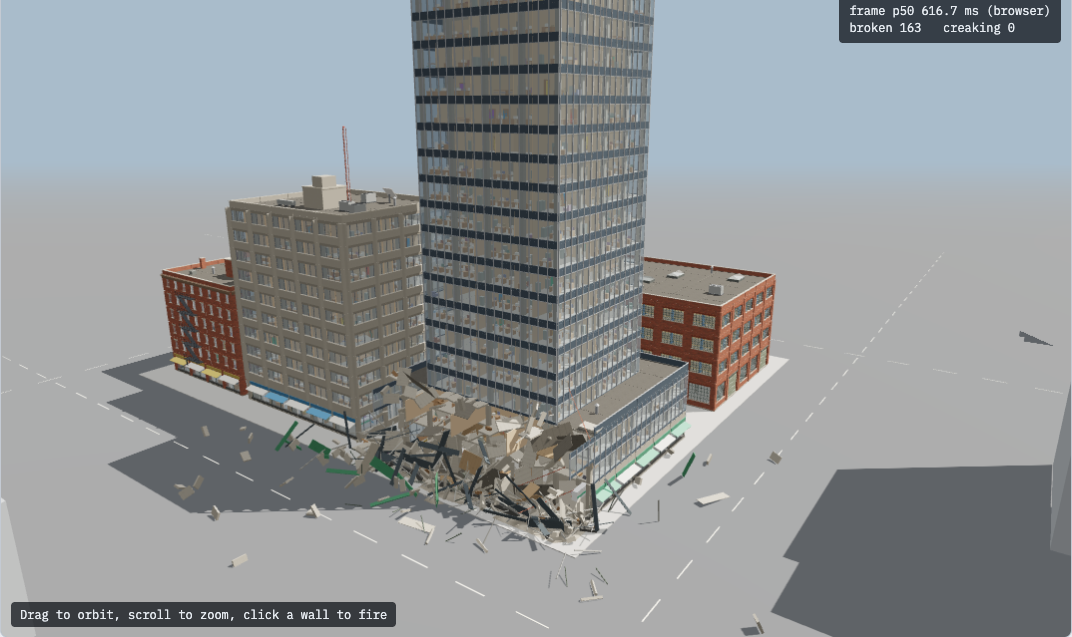
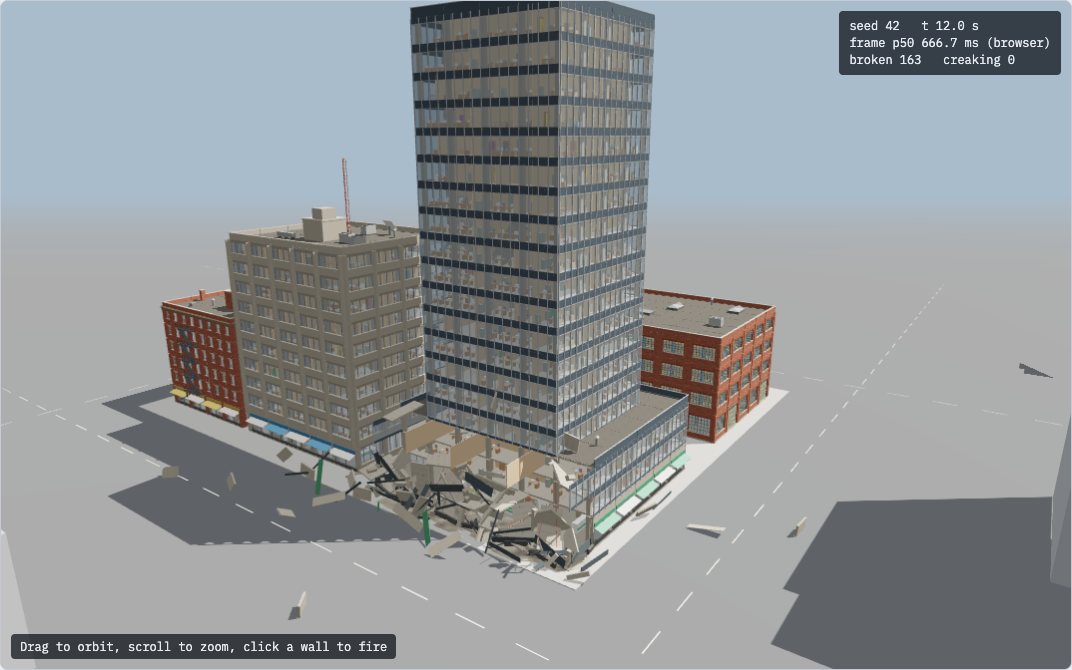
Measure the structure on the CPU; a lighter Game debris tier
A Rust port of the mockup's solve and debris step (a measurement instrument, not game code):
0.06 ms for a 19-storey tower, 0.18 ms for 60 storeys, 0.35 ms for 9 000 moving pieces, on one
M4 Max core, indicative only. The pieces are the cost, so the mockup gains a Game debris tier
(biggest boxes only, 2 parts at most, glass, partitions and furniture to dust and heap, a 2 500
pool, no perching on column tops): the warehouse collapse drops from 7 556 pieces to 1 387.

diff --git a/docs/mockups/buildings.html b/docs/mockups/buildings.html
@@ -96,6 +96,10 @@ dt { color: var(--muted); } dd { margin: 0; text-align: right; }
         <button data-demo="warehouse">Drop the warehouse</button>
         <button data-demo="walkup">Missile volley</button>
       </div>
+      <div class="row"><label>Debris</label>
+        <button id="tierGame" class="on">Game</button>
+        <button id="tierFull">Full</button>
+      </div>
       <div class="row">
         <label>Seed <input type="number" id="seed" value="42" style="width:90px"></label>
         <button id="regen">Generate</button>
@@ -187,7 +191,12 @@ const T = {
   slab_support_factor: { four: 1.0, three: 0.85, diagonal: 0.7, one_edge: 0.45, one: 0.25, hung: 0.4 },
   hp_mj: { column: 2.5, slab: 3.0, wall: 0.7, glass: 0.02, partition: 0.15, core: 1.2, furniture: 0.05, prop: 0.35, parapet: 0.5, escape: 0.25 },
   blast_m_per_cbrt_mj: 2.2,
-  debris_pool: 9000, rubble_fines: 0.5, repose_slope: 0.75, heap_cell_m: 1.0,
+  debris_pool: 9000, rubble_fines: 0.5,
+  // Debris detail. Game: only the biggest boxes of a member become pieces (a column 1, a wall 2, a
+  // tank 6), at most 2 parts each, glass, partitions and furniture go straight to dust and heap, and
+  // pieces never perch on column or wall tops. Full: every box, up to 6 parts each (the first mockup).
+  debris_keep: { column: 1, slab: 1, wall: 2, parapet: 1, core: 3, escape: 2, prop: 6, glass: 0, partition: 0, furniture: 0 },
+  debris_pool_game: 2500, repose_slope: 0.75, heap_cell_m: 1.0,
 };
 const WEAPONS = [['35 mm', 0.25], ['120 mm', 4], ['Missile', 12], ['Demolition', 50]];
 const blastRadius = e => T.blast_m_per_cbrt_mj * Math.cbrt(e);   // the crater rule from terrain-deformation
@@ -1103,14 +1112,28 @@ function blast(p, energy) {
   puff(p, R * 1.4, 0x8a8278, 3.5, 0.9);
   puff(p, R * 0.9, 0xffa040, 0.35, 1.0);
 }
+let DEBRIS_TIER = 'game';
+// The boxes of an element that become pieces, and the volume that goes straight to the heap.
+function pieceBoxes(e) {
+  if (DEBRIS_TIER === 'full') return { boxes: e.boxes, fines: 0 };
+  const keep = T.debris_keep[e.kind] ?? 1;
+  const sorted = e.boxes.slice().sort((a, c) => c.s[0] * c.s[1] * c.s[2] - a.s[0] * a.s[1] * a.s[2]);
+  const boxes = sorted.slice(0, keep);
+  const fines = sorted.slice(keep).reduce((v, bx) => v + bx.s[0] * bx.s[1] * bx.s[2], 0);
+  return { boxes, fines };
+}
+const poolSize = () => DEBRIS_TIER === 'full' ? T.debris_pool : T.debris_pool_game;
 function destroy(id, cause) {
   const e = E[id]; if (!e.alive) return;
   e.alive = false; sim.broken++;
   const b = B[e.b]; b.dirty = true; b.maskDirty = true;
   const r = sim.rng;
   // The pieces: each box breaks into a few (in the game, the module's pre-fractured cells).
-  for (const bx of e.boxes) {
-    const n = bx.mat === 'glass' ? 4 : Math.max(1, Math.min(6, Math.round(bx.s[0] * bx.s[1] * bx.s[2] / 0.5)));
+  const { boxes, fines } = pieceBoxes(e);
+  if (fines > 0) heapDeposit((e.aabb[0] + e.aabb[3]) / 2, (e.aabb[2] + e.aabb[5]) / 2, fines * T.rubble_fines, 1.5);
+  for (const bx of boxes) {
+    const most = DEBRIS_TIER === 'full' ? 6 : 2;
+    const n = bx.mat === 'glass' ? 4 : Math.max(1, Math.min(most, Math.round(bx.s[0] * bx.s[1] * bx.s[2] / 0.5)));
     for (const part of fracture(bx, n, r)) {
       let v;
       if (cause) {
@@ -1144,7 +1167,7 @@ const MAT_TINT = { brick: 0x9a4a36, roof: 0x55524d };
 function spawnPiece(part, v, w, cluster = null) {
   let slot = sim.free.pop();
   if (slot === undefined) {
-    if (sim.pieces.length < T.debris_pool) slot = sim.pieces.length;
+    if (sim.pieces.length < poolSize()) slot = sim.pieces.length;
     else {    // the pool is full: the oldest resting piece becomes heap
       while (sim.settledQ.length && !(sim.pieces[sim.settledQ[0]]?.settled)) sim.settledQ.shift();
       slot = sim.settledQ.shift();
@@ -1186,11 +1209,12 @@ function dropIslands(b, loose) {
     cl.c.multiplyScalar(1 / m); cl.mass = m;
     // It tips away from whatever it last stood on.
     if (ns) { sup.multiplyScalar(1 / ns); const away = new THREE.Vector3(cl.c.x - sup.x, 0, cl.c.z - sup.z); if (away.lengthSq() > 0.01) { away.normalize(); cl.w.set(away.z, 0, -away.x).multiplyScalar(-0.35); } }
-    for (const id of ids) for (const bx of E[id].boxes) {
+    cl.fines = 0;
+    for (const id of ids) { const pb = pieceBoxes(E[id]); cl.fines += pb.fines; for (const bx of pb.boxes) {
       const p = spawnPiece({ c: bx.c, s: bx.s, q: bx.q, color: bx.color, mat: bx.mat }, new THREE.Vector3(), new THREE.Vector3(), cl);
       if (!p) continue;
       p.local = bx.c.clone().sub(cl.c); p.lq = bx.q.clone(); cl.pieces.push(p);
-    }
+    } }
     sim.clusters.push(cl);
   }
   b.maskDirty = true;
@@ -1239,7 +1263,7 @@ function pushOut(p, hh) {
       const ox = Math.min(p.c.x + ex - a[0], a[3] - (p.c.x - ex)), oz = Math.min(p.c.z + ez - a[2], a[5] - (p.c.z - ez));
       const oy = Math.min(p.c.y + hh - a[1], a[4] - (p.c.y - hh));
       if (ox <= 0 || oy <= 0 || oz <= 0) continue;
-      if (oy < Math.min(ox, oz) && p.c.y > (a[1] + a[4]) / 2) { p.c.y += oy + 0.004; onTop = true; }
+      if (DEBRIS_TIER === 'full' && oy < Math.min(ox, oz) && p.c.y > (a[1] + a[4]) / 2) { p.c.y += oy + 0.004; onTop = true; }
       else if (ox < oz) { p.c.x += p.c.x < (a[0] + a[3]) / 2 ? -ox : ox; p.v.x *= -0.2; }
       else { p.c.z += p.c.z < (a[2] + a[5]) / 2 ? -oz : oz; p.v.z *= -0.2; }
     }
@@ -1353,7 +1377,7 @@ function shatter(cl, contact) {
   const cx = cl.pieces.reduce((s, p) => s + p.c.x, 0) / Math.max(1, cl.pieces.length);
   const cz = cl.pieces.reduce((s, p) => s + p.c.z, 0) / Math.max(1, cl.pieces.length);
   const spread = Math.sqrt(Math.max(4, cl.pieces.length)) * 0.9;
-  heapDeposit(cx, cz, vol * T.rubble_fines, Math.min(14, 2 + spread));
+  heapDeposit(cx, cz, (vol + (cl.fines || 0)) * T.rubble_fines, Math.min(14, 2 + spread));
   puff(new THREE.Vector3(contact.x, contact.y, contact.z), Math.min(30, 6 + spread * 1.5), 0x9e968a, 6, 0.9);
 }
 
@@ -1717,6 +1741,9 @@ const toggle = (id, fn) => { const el = document.getElementById(id); el.onclick 
 toggle('tFacade', on => { ui.skin = on; B[ui.sel].u.skin.value = on ? 1 : 0; });
 toggle('tStress', on => { U.stress.value = on ? 1 : 0; });
 toggle('tPause', on => { sim.paused = on; });
+function setTier(t) { DEBRIS_TIER = t; document.getElementById('tierGame').classList.toggle('on', t === 'game'); document.getElementById('tierFull').classList.toggle('on', t === 'full'); }
+document.getElementById('tierGame').onclick = () => setTier('game');
+document.getElementById('tierFull').onclick = () => setTier('full');
 document.getElementById('regen').onclick = () => buildWorld(+document.getElementById('seed').value || 0);
 document.getElementById('reset').onclick = () => buildWorld(SEED);
 document.querySelectorAll('[data-view]').forEach(bt => bt.onclick = () => setView(bt.dataset.view));
@@ -1912,6 +1939,7 @@ window.MOCKUP = {
     buildWorld(seed ?? SEED);
   },
   pause: on => { sim.paused = on; },
+  tier: setTier,
 };
 buildWorld(42);
 resize();

diff --git a/docs/benchmarks/2026-10-24-structure-cpu/structbench.rs b/docs/benchmarks/2026-10-24-structure-cpu/structbench.rs
@@ -1,0 +1,168 @@
+//! Measurement instrument for openspec/changes/structural-destruction and rubble: the mockup's
+//! structural graph, solve and debris step ported to plain Rust, timed on the CPU. Not game code.
+use std::time::Instant;
+
+const GROUND: u32 = u32::MAX;
+#[derive(Clone, Copy, PartialEq)]
+enum Kind { Glass, Wall, Furniture, Partition, Slab, Column }
+fn rank(k: Kind) -> u8 { match k { Kind::Glass => 0, Kind::Furniture | Kind::Partition => 2, Kind::Wall => 3, Kind::Slab => 4, Kind::Column => 5 } }
+
+struct E { kind: Kind, storey: i32, mass: f32, rests: Vec<u32>, lateral: Vec<u32>, carries: Vec<u32>, node: (i32, i32), alive: bool, sup: u8, load: f32, cap: f32 }
+struct B { e: Vec<E>, order: Vec<u32>, line: Vec<bool>, storeys: i32, col_at: Vec<std::collections::HashMap<(i32, i32), u32>>, slab_at: Vec<std::collections::HashMap<(i32, i32), u32>> }
+
+// A tower like the mockup's: 6 x 6 bays, a 3-storey podium, the rest inset one bay; per storey and
+// cell about as many partitions and furniture items as the mockup generated (3 216 elements at 19 storeys).
+fn tower(storeys: i32, n: i32, podium: i32, part_per_cell: usize, furn_per_cell: usize) -> B {
+    let mut b = B { e: vec![], order: vec![], line: vec![], storeys, col_at: vec![], slab_at: vec![] };
+    let mut push = |b: &mut B, kind, storey, mass, rests: Vec<u32>, node| { b.e.push(E { kind, storey, mass, rests, lateral: vec![], carries: vec![], node, alive: true, sup: 0, load: 0.0, cap: f32::INFINITY }); (b.e.len() - 1) as u32 };
+    for k in 0..storeys {
+        let ins = if k >= podium { 1 } else { 0 };
+        let (i0, i1) = (ins, n - ins);
+        let mut cols = std::collections::HashMap::new();
+        for a in i0..=i1 { for c in i0..=i1 {
+            let mut r = vec![];
+            if k == 0 { r.push(GROUND) } else {
+                if let Some(&x) = b.col_at[(k - 1) as usize].get(&(a, c)) { r.push(x) }
+                for (i, j) in [(a - 1, c - 1), (a, c - 1), (a - 1, c), (a, c)] { if let Some(&s) = b.slab_at[(k - 1) as usize].get(&(i, j)) { r.push(s) } }
+            }
+            let id = push(&mut b, Kind::Column, k, 3000.0, r, (a, c)); cols.insert((a, c), id);
+        } }
+        b.col_at.push(cols);
+        let mut slabs = std::collections::HashMap::new();
+        for i in i0..i1 { for j in i0..i1 {
+            let r = [(i, j), (i + 1, j), (i, j + 1), (i + 1, j + 1)].iter().map(|p| b.col_at[k as usize][p]).collect();
+            let id = push(&mut b, Kind::Slab, k, 21600.0, r, (i, j)); slabs.insert((i, j), id);
+        } }
+        for (&(i, j), &id) in &slabs { for (di, dj) in [(1, 0), (-1, 0), (0, 1), (0, -1)] { if let Some(&nb) = slabs.get(&(i + di, j + dj)) { b.e[id as usize].lateral.push(nb) } } }
+        b.slab_at.push(slabs);
+        // facade: one wall and one glass per perimeter edge
+        for side in 0..4 { for idx in i0..i1 {
+            let (cell, nodes) = match side { 0 => ((idx, i0), [(idx, i0), (idx + 1, i0)]), 1 => ((idx, i1 - 1), [(idx, i1), (idx + 1, i1)]), 2 => ((i0, idx), [(i0, idx), (i0, idx + 1)]), _ => ((i1 - 1, idx), [(i1, idx), (i1, idx + 1)]) };
+            let mut r = vec![if k == 0 { GROUND } else { b.slab_at[(k - 1) as usize][&cell] }];
+            for nd in nodes { r.push(b.col_at[k as usize][&nd]) }
+            let w = push(&mut b, Kind::Wall, k, 6000.0, r, cell);
+            push(&mut b, Kind::Glass, k, 300.0, vec![w], cell);
+        } }
+        for i in i0..i1 { for j in i0..i1 {
+            let under = if k == 0 { GROUND } else { b.slab_at[(k - 1) as usize][&(i, j)] };
+            for _ in 0..part_per_cell { push(&mut b, Kind::Partition, k, 500.0, vec![under], (i, j)); }
+            for _ in 0..furn_per_cell { push(&mut b, Kind::Furniture, k, 80.0, vec![under], (i, j)); }
+        } }
+    }
+    for id in 0..b.e.len() { for r in b.e[id].rests.clone() { if r != GROUND { b.e[r as usize].carries.push(id as u32) } } }
+    let mut order: Vec<u32> = (0..b.e.len() as u32).collect();
+    order.sort_by(|&p, &q| b.e[q as usize].storey.cmp(&b.e[p as usize].storey).then(rank(b.e[p as usize].kind).cmp(&rank(b.e[q as usize].kind))).then(p.cmp(&q)));
+    b.order = order; b.line = vec![false; b.e.len()];
+    b
+}
+
+fn slab_factor(b: &B, id: usize) -> f32 {
+    let held: Vec<(i32, i32)> = b.e[id].rests.iter().filter(|&&r| b.e[r as usize].alive && b.line[r as usize]).map(|&r| b.e[r as usize].node).collect();
+    match held.len() { 4.. => 1.0, 3 => 0.85, 2 => if held[0].0 == held[1].0 || held[0].1 == held[1].1 { 0.45 } else { 0.7 }, 1 => 0.25, _ => 0.4 }
+}
+
+/// One solve; returns (loose elements, overloaded elements).
+fn solve(b: &mut B, design: bool) -> (usize, usize) {
+    for e in b.e.iter_mut() { e.sup = 0 }
+    let mut q: Vec<u32> = vec![];
+    for id in 0..b.e.len() { if b.e[id].alive && b.e[id].rests.contains(&GROUND) { b.e[id].sup = 1; q.push(id as u32) } }
+    let spread = |b: &mut B, q: &mut Vec<u32>, mark: u8| { while let Some(id) = q.pop() { for ci in 0..b.e[id as usize].carries.len() { let c = b.e[id as usize].carries[ci] as usize; if b.e[c].alive && b.e[c].sup == 0 { b.e[c].sup = mark; q.push(c as u32) } } } };
+    spread(b, &mut q, 1);
+    let mut hung = vec![];
+    for id in 0..b.e.len() { let e = &b.e[id]; if e.kind == Kind::Slab && e.alive && e.sup == 0 && e.lateral.iter().any(|&n| b.e[n as usize].alive && b.e[n as usize].sup == 1) { hung.push(id as u32) } }
+    for &h in &hung { b.e[h as usize].sup = 2 }
+    spread(b, &mut hung, 2);
+    let mut loose = 0;
+    for e in b.e.iter_mut() { if e.alive && e.sup == 0 { e.alive = false; loose += 1 } }
+    // load line, bottom up (order is top-down, so walk it backwards)
+    for i in (0..b.order.len()).rev() { let id = b.order[i] as usize; if b.e[id].kind != Kind::Column { continue } let e = &b.e[id];
+        b.line[id] = e.alive && e.sup > 0 && (e.rests[0] == GROUND || (b.e[e.rests[0] as usize].kind == Kind::Column && b.e[e.rests[0] as usize].alive && b.line[e.rests[0] as usize])); }
+    for e in b.e.iter_mut() { e.load = if e.alive && e.sup > 0 { e.mass * 9.81e-3 } else { 0.0 } }
+    let mut fail_now = 0;
+    let mut targets: Vec<u32> = Vec::with_capacity(8);
+    for oi in 0..b.order.len() {
+        let id = b.order[oi] as usize;
+        if !b.e[id].alive || b.e[id].sup == 0 { continue }
+        targets.clear();
+        let e = &b.e[id];
+        match e.kind {
+            Kind::Slab => { for &r in &e.rests { if b.e[r as usize].alive && b.line[r as usize] { targets.push(r) } }
+                if targets.is_empty() { for &n in &e.lateral { let ne = &b.e[n as usize]; if ne.alive && ne.sup == 1 && ne.rests.iter().any(|&r| b.e[r as usize].alive && b.line[r as usize]) { targets.push(n) } } }
+                if targets.is_empty() { fail_now += 1; continue } }
+            Kind::Column => { if b.line[id] { if e.rests[0] != GROUND { targets.push(e.rests[0]) } } else { for &r in &e.rests { if r != GROUND && b.e[r as usize].alive && b.e[r as usize].sup > 0 { targets.push(r) } } } }
+            _ => { for &r in &e.rests { if r != GROUND && b.e[r as usize].alive && b.e[r as usize].sup > 0 { targets.push(r) } } }
+        }
+        if targets.is_empty() { continue }
+        let share = b.e[id].load / targets.len() as f32;
+        for &t in &targets { b.e[t as usize].load += share }
+    }
+    let mut over = 0;
+    for id in 0..b.e.len() {
+        let k = b.e[id].kind;
+        if design { if k == Kind::Column || k == Kind::Slab { b.e[id].cap = b.e[id].load.max(1.0) * 2.0 } continue }
+        if b.e[id].alive && b.e[id].cap.is_finite() {
+            let f = if k == Kind::Slab { slab_factor(b, id) } else { 1.0 };
+            if b.e[id].load / (b.e[id].cap * f) > 1.0 { over += 1 }
+        }
+    }
+    (loose, over + fail_now)
+}
+
+fn time<F: FnMut()>(n: usize, mut f: F) -> (f64, f64, f64) {
+    let mut v: Vec<f64> = (0..n).map(|_| { let t = Instant::now(); f(); t.elapsed().as_secs_f64() * 1e3 }).collect();
+    v.sort_by(|a, b| a.partial_cmp(b).unwrap());
+    (v[n / 2], v[n * 95 / 100], v[n - 1])
+}
+
+// Debris: the mockup's free-piece step (gravity, ground = heap bilinear + stack grid + slab lookup, settle).
+struct Piece { c: [f32; 3], v: [f32; 3], hh: f32, settled: bool, rest: f32 }
+fn debris_step(p: &mut [Piece], heap: &[f32], stack: &[f32], slabs: &[f32], dt: f32) {
+    let (hn, sn) = (160usize, 640usize);
+    for q in p.iter_mut() {
+        if q.settled { continue }
+        q.v[1] -= 9.81 * dt; for i in 0..3 { q.c[i] += q.v[i] * dt }
+        let mut sup = 0.0f32;
+        for (sx, sz) in [(0.0, 0.0), (-0.3, -0.3), (0.3, -0.3), (-0.3, 0.3), (0.3, 0.3)] {
+            let (x, z) = (q.c[0] + sx, q.c[2] + sz);
+            let fx = (x + 80.0).clamp(0.0, 158.0); let fz = (z + 70.0).clamp(0.0, 138.0);
+            let (i, j) = (fx as usize, fz as usize); let (tx, tz) = (fx - i as f32, fz - j as f32);
+            let h = heap[j * hn + i] * (1.0 - tx) * (1.0 - tz) + heap[j * hn + i + 1] * tx * (1.0 - tz) + heap[(j + 1) * hn + i] * (1.0 - tx) * tz + heap[(j + 1) * hn + i + 1] * tx * tz;
+            let si = (((x + 80.0) / 0.25) as usize).min(sn - 1); let sj = (((z + 70.0) / 0.25) as usize).min(559);
+            let st = stack[sj * sn + si];
+            let cell = ((((x + 80.0) / 6.0) as usize).min(26) * 24 + (((z + 70.0) / 6.0) as usize).min(23)) * 20;
+            let mut sl = 0.0f32; for k in (0..20).rev() { let top = slabs[cell + k]; if top > 0.0 && top <= q.c[1] + 0.35 { sl = top; break } }
+            sup = sup.max(h).max(if st <= q.c[1] - q.hh + 0.1 { st } else { 0.0 }).max(sl);
+        }
+        if q.c[1] - q.hh < sup { q.c[1] = sup + q.hh; if q.v[1] < 0.0 { q.v[1] *= -0.18 } q.v[0] *= 0.72; q.v[2] *= 0.72;
+            if q.v.iter().map(|v| v * v).sum::<f32>() < 0.25 { q.rest += dt; if q.rest > 0.3 { q.settled = true } } }
+    }
+}
+
+fn main() {
+    println!("machine: see sysctl; release build; CPU only, one core");
+    for &(st, ppc, fpc) in &[(19, 2usize, 4usize), (60, 2, 4)] {
+        let t = Instant::now();
+        let mut b = tower(st, 6, 3, ppc, fpc);
+        let build = t.elapsed().as_secs_f64() * 1e3;
+        solve(&mut b, true);
+        let n = b.e.len();
+        let bonds: usize = b.e.iter().map(|e| e.rests.len() + e.lateral.len()).sum();
+        let base = b.e.iter().map(|e| e.alive).collect::<Vec<_>>();
+        let (p50, p95, mx) = time(400, || { solve(&mut b, false); });
+        // the "side" demolition: every ground column on one side
+        let side: Vec<usize> = (0..n).filter(|&i| b.e[i].kind == Kind::Column && b.e[i].storey == 0 && b.e[i].node.1 == 0).collect();
+        let (s50, s95, smx) = time(400, || { for (i, e) in b.e.iter_mut().enumerate() { e.alive = base[i] } for &i in &side { b.e[i].alive = false } solve(&mut b, false); });
+        for (i, e) in b.e.iter_mut().enumerate() { e.alive = base[i] } for &i in &side { b.e[i].alive = false }
+        let (loose, over) = solve(&mut b, false);
+        println!("tower {st} storeys: {n} elements, {bonds} bonds, build {build:.2} ms; solve intact p50 {p50:.3} p95 {p95:.3} max {mx:.3} ms; after losing a ground side p50 {s50:.3} p95 {s95:.3} max {smx:.3} ms ({loose} loose, {over} overloaded)");
+    }
+    let heap = vec![0.5f32; 160 * 140]; let mut stack = vec![0.0f32; 640 * 560]; for (i, s) in stack.iter_mut().enumerate() { if i % 7 == 0 { *s = 0.6 } }
+    let slabs: Vec<f32> = (0..27 * 24 * 20).map(|i| if i % 3 == 0 { 0.3 + (i % 20) as f32 * 3.5 } else { 0.0 }).collect();
+    for &n in &[600usize, 2000, 9000] {
+        let mut p: Vec<Piece> = (0..n).map(|i| Piece { c: [(i % 97) as f32 - 48.0, 5.0 + (i % 13) as f32, (i % 89) as f32 - 44.0], v: [1.0, 0.0, -1.0], hh: 0.2, settled: false, rest: 0.0 }).collect();
+        let (p50, p95, mx) = time(300, || { for q in p.iter_mut() { q.settled = false; q.c[1] = 30.0 } debris_step(&mut p, &heap, &stack, &slabs, 1.0 / 60.0); });
+        println!("debris step, {n} pieces all moving: p50 {p50:.3} p95 {p95:.3} max {mx:.3} ms");
+    }
+    let t = Instant::now(); let mut s2 = vec![0.0f32; 640 * 560]; for k in 0..9000 { let (i0, j0) = ((k * 37) % 620, (k * 53) % 540); for j in j0..j0 + 8 { for i in i0..i0 + 8 { let ix = j * 640 + i; if s2[ix] < 1.0 { s2[ix] = 1.0 } } } } stack = s2;
+    println!("restack of 9000 resting pieces (8 x 8 cells each): {:.3} ms (check {})", t.elapsed().as_secs_f64() * 1e3, stack[0]);
+}

diff --git a/docs/benchmarks/2026-10-24-structure-cpu/report.md b/docs/benchmarks/2026-10-24-structure-cpu/report.md
@@ -1,0 +1,45 @@
+# Structural destruction on the CPU: is it cheap enough? (2026-10-24)
+
+A measurement instrument for `structural-destruction` and `rubble` (CLAUDE.md section 4 allows one).
+`structbench.rs` ports the mockup's graph, solve and debris step to plain Rust (std only, no Bevy)
+and times them. It is not game code.
+
+Run it: `cargo new structbench && cp structbench.rs structbench/src/main.rs && cd structbench && cargo run --release`.
+
+## Conditions, and why this is indicative, not a claim
+
+- Release build, one core, on the owner's Apple M4 Max.
+- The owner was using the Mac at the time, so this breaks section 7's "nothing else running". The
+  results are indicative only.
+- Synthetic towers built like the mockup's: 6 x 6 bays, a 3-storey podium, inset above, with 2
+  partitions and 4 furniture items per cell per storey.
+- p50, p95 and max are over 400 runs (300 for debris).
+- No GPU work is measured here. Cloud and CPU runs measure nothing of the frame (section 7).
+
+## Results (ms)
+
+| What | Elements | Bonds | p50 | p95 | max |
+| --- | --- | --- | --- | --- | --- |
+| Solve, 19-storey tower, intact | 3 751 | 7 975 | 0.057 | 0.067 | 0.091 |
+| Solve, same, every ground column on one side gone | | | 0.062 | 0.072 | 0.116 |
+| Solve, 60-storey tower, intact | 10 680 | 22 776 | 0.171 | 0.192 | 0.256 |
+| Solve, same, one ground side gone | | | 0.180 | 0.201 | 0.243 |
+| Debris step, 600 pieces moving | | | 0.023 | 0.028 | 0.061 |
+| Debris step, 2 000 moving | | | 0.078 | 0.090 | 0.149 |
+| Debris step, 9 000 moving | | | 0.354 | 0.391 | 0.520 |
+| Restack of 9 000 resting pieces | | | 0.277 (once) | | |
+
+Building the graph itself takes 0.5 ms (19 storeys) and 1.1 ms (60 storeys).
+
+## What it says
+
+- The simulation is not the problem. A 60-storey tower solves in under 0.2 ms. The design's limit of
+  4 solves per 1/60 s step keeps the worst step under 1 ms, and that holds with room to spare.
+- The cost of a collapse is in **what is drawn and simulated as pieces**. The mockup's Full debris
+  put 7 556 pieces on the ground from the warehouse. With Game debris (the biggest boxes of each
+  member only, 2 parts at most, glass, partitions and furniture straight to dust and heap) it was
+  1 387, 5.4 x fewer, and it still reads as a collapse (`docs/screenshots/buildings/warehouse_drop.png`
+  against `warehouse_drop_full.png`).
+- **Still to measure, on the owner's hardware with the owner's go-ahead** (section 8): the GPU side.
+  That is the element-mask material on 25 or more LOD0 buildings with interiors, shadows over them,
+  and 2 500 debris instances, in `perf-bench` against the 8.3 ms p95.

diff --git a/openspec/changes/structural-destruction/design.md b/openspec/changes/structural-destruction/design.md
@@ -91,6 +91,23 @@ Expected in Rust, measured in `perf-bench` with the `side` demolition in view:
 - City-wide, graphs exist only for buildings within the interior radius or damaged. The rest are
   regenerated from the seed when needed.
 
+## 5a. Measured on the CPU, and the debris tier
+
+`docs/benchmarks/2026-10-24-structure-cpu/` (Rust port of the mockup, one core, indicative). A solve
+is 0.06 ms for a 19-storey tower (3 751 elements) and 0.18 ms for a 60-storey one (10 680). The
+debris step is 0.35 ms for 9 000 moving pieces.
+
+The structure is cheap. The pieces are the cost, so the game uses the **Game debris tier** (owner,
+2026-10-24: "might have to bring down the realism a bit"):
+- only the biggest boxes of a member become pieces (column 1, floor bay 1, wall 2, core 3, roof prop 6);
+- at most 2 parts each;
+- glass, partitions and furniture go straight to dust and heap;
+- pieces never perch on column or wall tops;
+- a pool of 2 500 pieces.
+
+The warehouse collapse drops from 7 556 pieces to 1 387. The mockup keeps Full as a switch for
+comparison.
+
 ## 6. Tuning (data, `data/world/buildings.ron`)
 
 | Key | Default | Unit |
@@ -101,7 +118,8 @@ Expected in Rust, measured in `perf-bench` with the `side` demolition in view:
 | `hang_hops` | 1 | bays |
 | `slab_support_factor` | four 1.0, three 0.85, diagonal 0.7, one_edge 0.45, one 0.25, hung 0.4 | ratio |
 | `hp_mj` | column 2.5, slab 3.0, wall 0.7, glass 0.02, partition 0.15, core 1.2, furniture 0.05, prop 0.35, parapet 0.5, escape 0.25 | MJ |
-| `debris_pool` | 9 000 | pieces |
+| `debris_pool` | 2 500 (Game tier; 9 000 in the mockup's Full) | pieces |
+| `debris_keep` | column 1, slab 1, wall 2, parapet 1, core 3, escape 2, prop 6, glass 0, partition 0, furniture 0 | boxes per member |
 
 ## Open questions
 

diff --git a/openspec/changes/rubble/design.md b/openspec/changes/rubble/design.md
@@ -36,7 +36,7 @@ Debris is expensive only while it moves. Once it lands it becomes scenery:
 | --- | --- | --- | --- |
 | In the air | Avian body (the first 600) or the core's kinematic step | with the ground, rubble, standing walls and resting debris | one instance |
 | Resting 0.3 s | none: the body is removed | none of its own; its top is stamped into a 0.25 m stack grid so later pieces land on it | one instance in a static per-tile batch |
-| Pool full | none | none | removed; its volume is already in the heap |
+| Pool full (2 500, Game tier) | none | none | removed; its volume is already in the heap |
 
 The pilot and the mech walk on the **heap heightfield**, never on pieces. A resting piece costs one
 instance and a few grid cells, with no collider and no physics step. A piece is woken only when what
